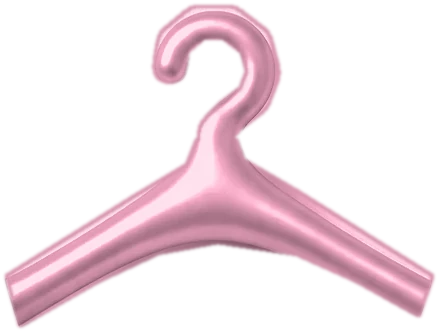
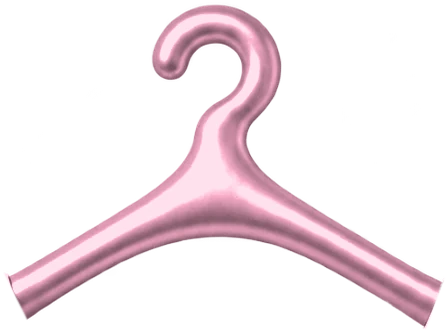
ONE OF ONE°: use the transparent top, clean hanger recolour, off-white page
Claude-Session: https://claude.ai/code/session_01Uv8GekDiT3XRVJuXEaEsRs

Changed region(s): [[0.0, 0.0, 1.0, 0.994]]

diff --git a/one-of-one/index.html b/one-of-one/index.html
@@ -15,7 +15,7 @@
 <meta property="og:locale" content="he_IL">
 <meta name="twitter:card" content="summary_large_image">
 <meta name="twitter:image" content="https://hagitantebi.co.il/one-of-one-og.jpg">
-<meta name="theme-color" content="#F2EEE9">
+<meta name="theme-color" content="#F4F1EA">
 <link rel="icon" href="/favicon.svg" type="image/svg+xml">
 
 <!-- Meta Pixel Code -->
@@ -76,8 +76,8 @@ src="https://www.facebook.com/tr?id=1326960187891724&ev=PageView&noscript=1"
 
 <style>
 :root{
-  --wall:#F2EEE9;        /* the photographed wall, so the top sits in the page */
-  --paper:#F4F1EA;
+  --wall:#F4F1EA;        /* off-white: the base colour of the brand */
+  --paper:#FAF8F3;
   --ink:#14161C;
   --silver:#C9CCD1; --silver-d:#8C9097;
   --butter:#F5E08A; --tomato:#E5412D; --cobalt:#1F47C8; --pink:#F2A7C3;
@@ -101,7 +101,7 @@ button{font:inherit;color:inherit;cursor:pointer}
 .sr{position:absolute;width:1px;height:1px;overflow:hidden;clip:rect(0 0 0 0);white-space:nowrap}
 
 /* ---------- topbar ---------- */
-.topbar{position:fixed;inset:0 0 auto 0;z-index:50;display:flex;justify-content:space-between;align-items:center;gap:12px;padding:11px clamp(16px,3vw,32px);font-size:13px;background:rgba(242,238,233,.86);backdrop-filter:blur(10px);-webkit-backdrop-filter:blur(10px);border-bottom:1px solid var(--line)}
+.topbar{position:fixed;inset:0 0 auto 0;z-index:50;display:flex;justify-content:space-between;align-items:center;gap:12px;padding:11px clamp(16px,3vw,32px);font-size:13px;background:rgba(244,241,234,.86);backdrop-filter:blur(10px);-webkit-backdrop-filter:blur(10px);border-bottom:1px solid var(--line)}
 .topbar .label b{font-weight:600}
 .topbar a{text-decoration:none;font-weight:500;white-space:nowrap}
 @media(max-width:640px){.topbar .bws{display:none}}
@@ -109,16 +109,15 @@ button{font:inherit;color:inherit;cursor:pointer}
 /* ---------- studio (hero) ---------- */
 .studio{min-height:100svh;display:grid;grid-template-columns:minmax(0,1.05fr) minmax(0,.95fr);align-items:center;gap:clamp(12px,3vw,48px);padding:74px clamp(16px,4vw,56px) 32px;max-width:1360px;margin:0 auto}
 .stage-wrap{position:relative;display:flex;justify-content:center}
-.stage{position:relative;width:min(100%,calc((100svh - 120px)*.8003));aspect-ratio:1122/1402;
-  -webkit-mask-image:radial-gradient(ellipse 62% 60% at 50% 50%,#000 78%,transparent 100%);mask-image:radial-gradient(ellipse 62% 60% at 50% 50%,#000 78%,transparent 100%)}
+.stage{position:relative;width:min(100%,calc((100svh - 120px)*.8003));aspect-ratio:1122/1402;filter:drop-shadow(-14px 26px 26px rgba(60,48,38,.22))}
 .stage img{position:absolute;user-select:none;-webkit-user-drag:none}
 .top{inset:0;width:100%;height:100%;transition:opacity .5s var(--ease)}
 .top.ink{opacity:0}
 .stage[data-top="ink"] .top.ink{opacity:1}
-.hanger{left:30.570%;top:2.853%;width:39.127%;height:23.680%;opacity:0;transition:opacity .45s var(--ease)}
+.hanger{left:29.590%;top:3.281%;width:39.929%;height:23.752%;opacity:0;transition:opacity .45s var(--ease)}
 .hanger.on{opacity:1}
-.piece{left:63.904%;top:38.302%;width:15%;transform:translate(-50%,-50%);filter:drop-shadow(-3px 7px 7px rgba(40,30,24,.30));transition:left .5s var(--ease),top .5s var(--ease),width .5s var(--ease)}
-.stage[data-place="sleeve"] .piece{left:16.845%;top:55.635%;width:9.5%}
+.piece{left:63.993%;top:38.445%;width:15%;transform:translate(-50%,-50%);filter:drop-shadow(-3px 7px 7px rgba(40,30,24,.30));transition:left .5s var(--ease),top .5s var(--ease),width .5s var(--ease)}
+.stage[data-place="sleeve"] .piece{left:15.508%;top:56.277%;width:9.5%}
 .piece.press{animation:press .42s var(--ease)}
 @keyframes press{0%{transform:translate(-50%,-50%) scale(1.5);opacity:0;filter:drop-shadow(-10px 22px 18px rgba(40,30,24,.18))}60%{transform:translate(-50%,-50%) scale(.94);opacity:1}100%{transform:translate(-50%,-50%) scale(1)}}
 .edition{position:absolute;inset-inline-start:4%;bottom:5%;font:500 11px/1.5 var(--mono);letter-spacing:.08em;direction:ltr;opacity:.6}
@@ -218,7 +217,7 @@ h2 b{font-weight:600}
 .mani{text-align:center}
 .mani .big{font:700 clamp(30px,6vw,84px)/.98 var(--en);font-stretch:122%;text-transform:uppercase;direction:ltr;margin:0 0 26px;letter-spacing:-.01em}
 .mani .big em{font-style:normal;color:var(--mood);transition:color .5s}
-.mani p{max-width:54ch;margin:0 auto;opacity:.82;font-size:18px}
+.mani p:not(.big){max-width:54ch;margin:0 auto;opacity:.82;font-size:18px}
 
 /* studio note / cta / neighbours */
 .studio-note .inner{max-width:780px}
@@ -543,14 +542,14 @@ document.addEventListener('DOMContentLoaded', function () {
   /* --- the certificate picture: the same layers, drawn on a canvas --- */
   var cache={};
   function load(u){return cache[u]||(cache[u]=new Promise(function(ok,no){var i=new Image();i.onload=function(){ok(i)};i.onerror=no;i.src=u}))}
-  var W=1122,H=1402,POS={chest:[717,537],sleeve:[189,780]},HB=[343,40,439,332],token=0;
+  var W=1122,H=1402,POS={chest:[718,539],sleeve:[174,789]},HB=[332,46,448,333],token=0;
   function paint(ctx,size){
     var t=++token,list=[load('assets/top-'+S.top+'.webp'),load(src(S.mood,S.fin))];
     if(S.fin!=='silver')list.push(load('assets/hanger-'+S.fin+'.webp'));
     return Promise.all(list).then(function(r){
       if(t!==token)return;
       var s=size/1120,ox=(size-W*s)/2,oy=-150*s;   /* square crop: hanger to hip */
-      ctx.fillStyle='#F2EEE9';ctx.fillRect(0,0,size,size);
+      ctx.fillStyle='#F4F1EA';ctx.fillRect(0,0,size,size);
       ctx.drawImage(r[0],ox,oy,W*s,H*s);
       if(r[2])ctx.drawImage(r[2],ox+HB[0]*s,oy+HB[1]*s,HB[2]*s,HB[3]*s);
       var sz=SIZE[S.mood],k=(S.place==='chest'?.15:.095)*W/Math.max(sz[0],sz[1]),w=sz[0]*k*s,h=sz[1]*k*s,p=POS[S.place];
